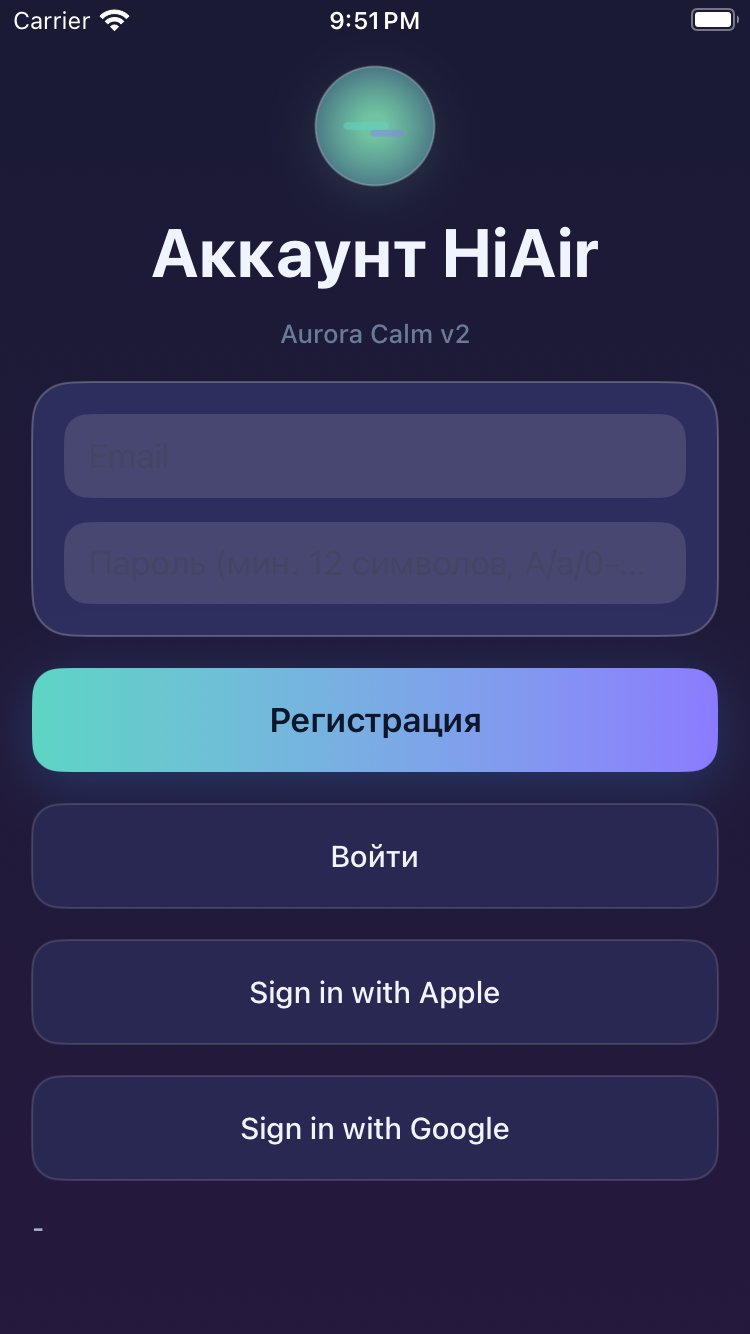
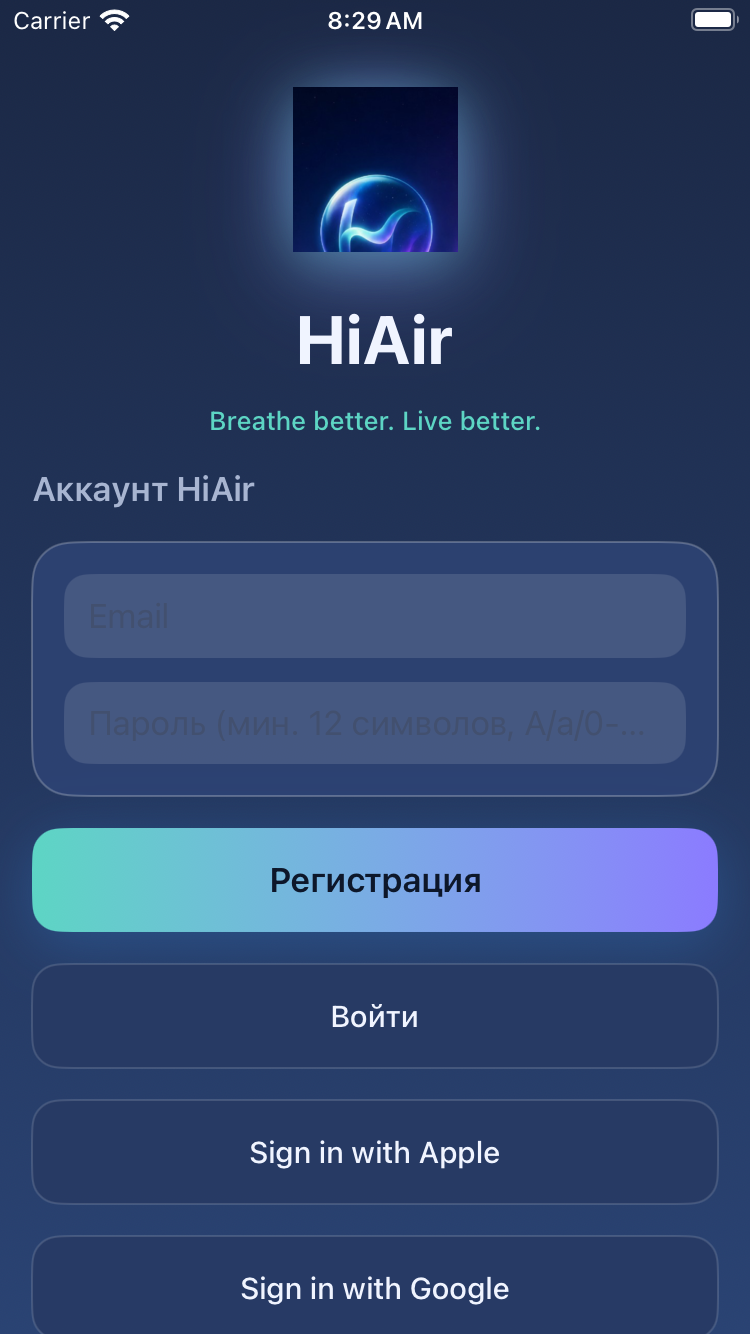
docs(brand): sync AGENTS memory, adaptive QA checklist, and iOS screenshots
Record tablet capture and verification notes after logo asset integration; update continual-learning preferences for brand packs and mobile PNG rules.

diff --git a/AGENTS.md b/AGENTS.md
@@ -5,15 +5,16 @@
 - User frequently asks for deep end-to-end audits and full hardening/closure rather than partial fixes.
 - User prioritizes high-quality, polished outcomes and is comfortable trading speed for quality.
 - User expects Supabase project provisioning, migrations, and server-side secrets to be handled via Supabase MCP/server automation rather than manual dashboard or local PAT flows when possible.
-- For brand or visual redesign work, keep scope to design tokens, components, and assets only; do not change backend, API, auth, data models, risk engine, or business flows, and keep UI components presentation-only.
+- For brand or visual redesign work, keep scope to design tokens, components, and assets only; integrate supplied mockups or publish packs for orb, icons, and launch assets without changing backend, API, auth, data models, risk engine, or business flows, and keep UI components presentation-only.
 
 ## Learned Workspace Facts
 - Main project workspace is `/Users/alex/Projects/HIAir`.
 - The workspace includes a mobile app effort (iOS and Android) plus backend/services work under the HiAir project.
 - The team uses incremental continual-learning memory updates with transcript files under the Cursor project transcript store.
 - The product scope includes multilingual UX/content support across Russian, English, Spanish, Italian, and French.
-- GitHub repository is `2qjckdknjf-ctrl/HiAir`.
+- GitHub repository is `2qjckdknjf-ctrl/HiAir`; for pushes with large binary assets, prefer the `hiair` remote or SSH (`git@github.com:2qjckdknjf-ctrl/HiAir.git`) when HTTPS push fails.
 - Backend is Python/FastAPI under `backend/` (risk engine, ingestion, notifications, privacy orchestration); production data/auth use Supabase PostgreSQL with RLS and Supabase Auth, with schema migrations in `backend/sql/`.
 - Production Supabase project is named `hiair-prod` (region `eu-central-1`); operator docs for Supabase/auth live under `docs/_operator/`.
 - Release closure is validated with `scripts/release/hiair_final_gate.sh` (including `--strict-external` for owner/legal readiness).
-- Brand and design-system source of truth lives under `docs/brand/`; product visual identity is HiAir Orb / Aurora Calm, and the brand name is spelled exactly `HiAir` in UI and store copy.
+- Brand source of truth is under `docs/brand/` (HiAir Orb / Aurora Calm; UI and store copy spell **HiAir**; tagline **Breathe better. Live better.**); iOS tokens/components live under `mobile/ios/HiAir/DesignSystem/`, Android under `mobile/android/app/src/main/java/com/hiair/ui/design/`, and store graphics under `docs/brand/store-assets/`.
+- Mobile brand PNGs: iOS in-app orb uses `.renderingMode(.original)`; AppIcon must be a full opaque `AppIcon.appiconset`; Android launcher uses `@mipmap/ic_launcher` adaptive icons and `imageTintList = null` on orb `ImageView`s so logos are not template-tinted.

diff --git a/docs/brand/HiAir-adaptive-qa-checklist.md b/docs/brand/HiAir-adaptive-qa-checklist.md
@@ -10,7 +10,7 @@ Mode: manual QA + `scripts/capture_hiair_adaptive_qa.sh` (compact / standard / l
 | iPhone SE / compact | Captured | `docs/brand/screenshots/ios/compact/dashboard.png` |
 | Standard iPhone 15 | Captured | `docs/brand/screenshots/ios/standard/dashboard.png` |
 | iPhone Pro Max | Captured | `docs/brand/screenshots/ios/large/dashboard.png` |
-| iPad portrait | Pending (simulator boot error on dev machine) | contentMaxWidth 680pt |
+| iPad portrait | Captured | `docs/brand/screenshots/ios/tablet/dashboard.png` — contentMaxWidth 680pt |
 | iPad landscape | Pending manual | scroll + max width |
 | Dynamic Type large | Pending manual | badges use lineLimit + minimumScaleFactor on score |
 
@@ -66,4 +66,14 @@ docs/brand/screenshots/ios/{compact,standard,large,tablet}/
 docs/brand/screenshots/android/{compact,standard,large,tablet}/
 ```
 
-Captured 2026-05-27: compact, standard, large dashboard.png (iPad pending — CoreSimulator boot error on dev machine).
+Captured 2026-05-28: compact, standard, large, tablet dashboard.png (automated). iPad landscape + Dynamic Type — manual.
+
+## Automated verification (2026-05-28)
+
+| Check | Result |
+|-------|--------|
+| `scripts/check_hiair_design_system.sh` | 0 warnings |
+| Android `test assembleDebug lintDebug` | BUILD SUCCESSFUL, lint 0 errors |
+| iOS `xcodebuild test` (iPhone 15) | TEST SUCCEEDED (3 tests) |
+| iOS build matrix (SE, 15, Pro Max, iPad Air) | BUILD SUCCEEDED each destination |
+| `capture_hiair_adaptive_qa.sh` | Use after script lock fix (mkdir lock); avoid parallel `xcodebuild` on same DerivedData |
